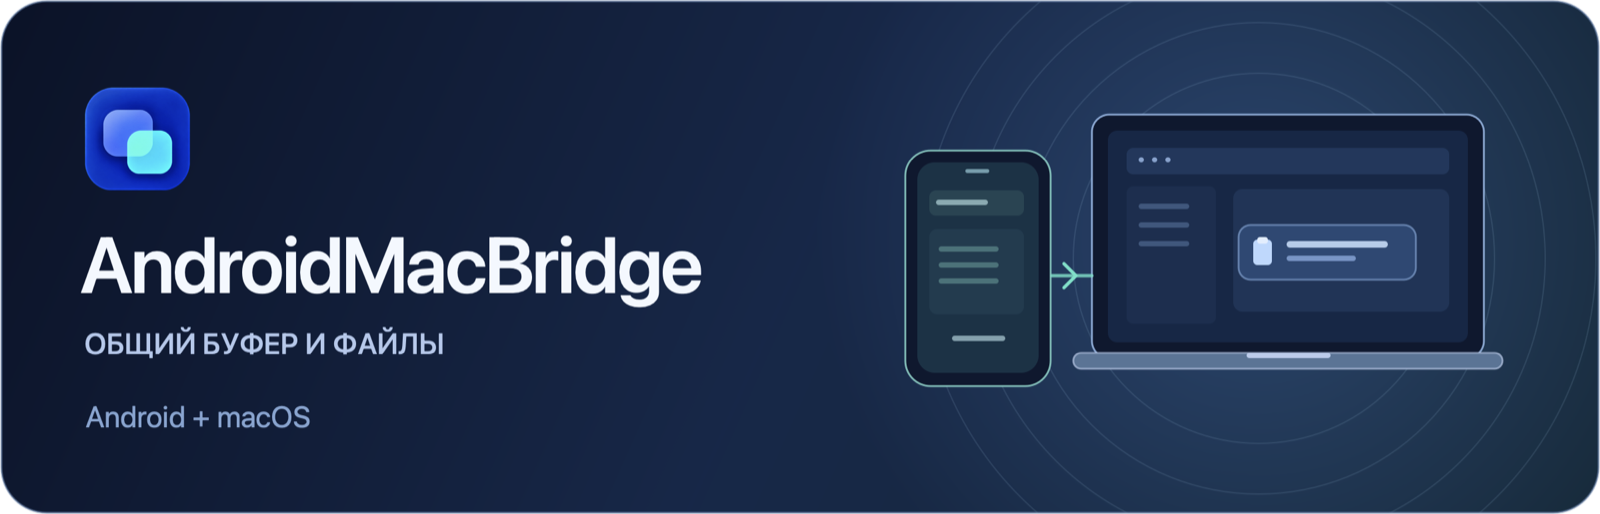
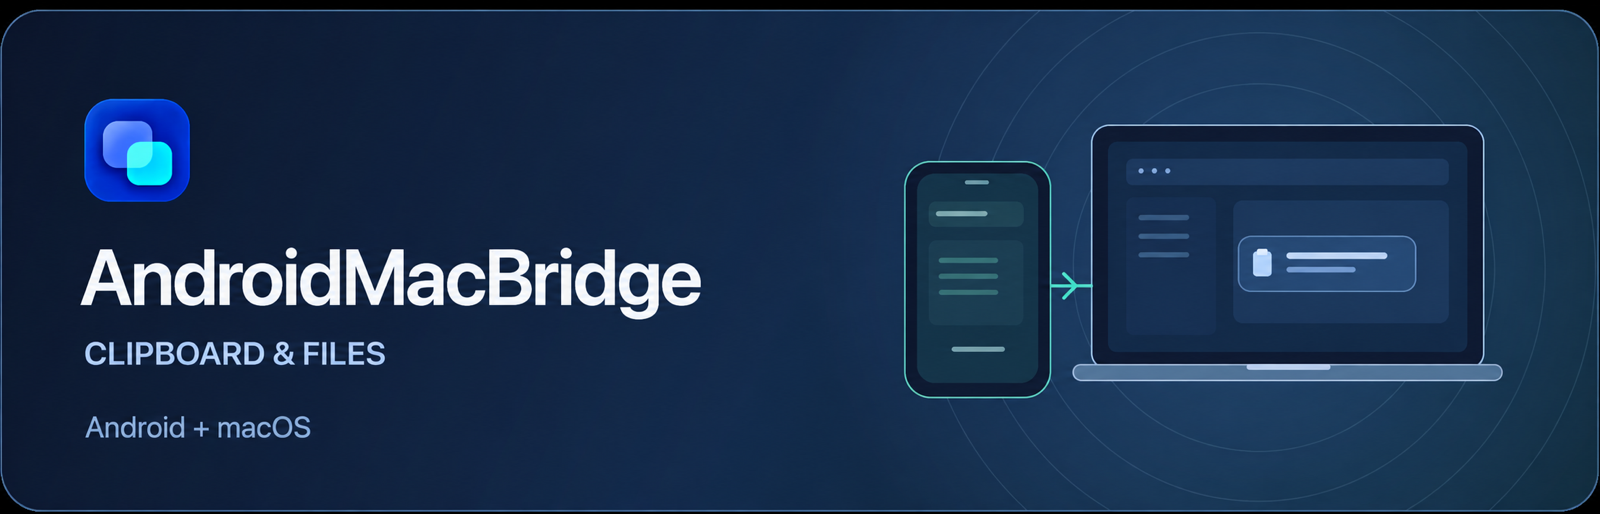
Translate public repository materials into English

diff --git a/README.md b/README.md
@@ -1,94 +1,94 @@
 <h1 align="center">
-  <img src="cover.png" width="960" alt="AndroidMacBridge — общий буфер и передача файлов между Android и Mac">
+  <img src="cover.png" width="960" alt="AndroidMacBridge — clipboard and file sharing between Android and Mac">
 </h1>
 
-<p align="center"><strong>Скопируй здесь, вставь там.</strong> Отправляй файлы в обе стороны.</p>
+<p align="center"><strong>Copy here. Paste there.</strong> Share files both ways.</p>
 
 <p align="center">
-  <a href="https://github.com/Seferaki/AndroidMacBridge/releases/download/v1.0.0/AndroidMacBridge-1.0.0-Android.apk"><img src="download-android.png" width="216" alt="Скачать APK для Android 10 и новее"></a>
+  <a href="https://github.com/Seferaki/AndroidMacBridge/releases/download/v1.0.0/AndroidMacBridge-1.0.0-Android.apk"><img src="download-android.png" width="216" alt="Download for Android 10 and later"></a>
   &nbsp;
-  <a href="https://github.com/Seferaki/AndroidMacBridge/releases/download/v1.0.0/AndroidMacBridge-1.0.0-macOS.zip"><img src="download-macos.png" width="216" alt="Скачать приложение для macOS 13 и новее"></a>
+  <a href="https://github.com/Seferaki/AndroidMacBridge/releases/download/v1.0.0/AndroidMacBridge-1.0.0-macOS.zip"><img src="download-macos.png" width="216" alt="Download for macOS 13 and later"></a>
 </p>
 
 <p align="center">
-  <a href="https://github.com/Seferaki/AndroidMacBridge/releases/tag/v1.0.0">Выпуск 1.0.0</a>
-  · <a href="#установка">Установка</a>
-  · <a href="#сборка-из-исходного-кода">Исходный код</a>
-  · <a href="https://github.com/Seferaki/AndroidMacBridge/releases">Все версии</a>
+  <a href="https://github.com/Seferaki/AndroidMacBridge/releases/tag/v1.0.0">Release 1.0.0</a>
+  · <a href="#installation">Installation</a>
+  · <a href="#building-from-source">Build from source</a>
+  · <a href="https://github.com/Seferaki/AndroidMacBridge/releases">All releases</a>
 </p>
 
-<p align="center">Если проект оказался полезен — поставьте ⭐ этому репозиторию. Это помогает ему развиваться.</p>
+<p align="center">If AndroidMacBridge is useful to you, please give this repository a ⭐ star. It helps the project grow.</p>
 
 ---
 
-## Что умеет AndroidMacBridge
+## What it does
 
-- **Общий буфер.** Текст, ссылки и изображения передаются между Android и Mac.
-- **Файлы в обе стороны.** На телефоне отправляй файл через «Поделиться»; на Mac — через меню Finder, перетаскивание или приложение.
-- **Wi‑Fi или Bluetooth.** Устройства работают в одной локальной сети либо напрямую по Bluetooth, когда подключены к разным сетям.
-- **Раздельная история.** История буфера и передач сохраняется отдельно для каждой пары устройств.
-- **Передача без облака.** Устройства обмениваются данными напрямую по защищённому соединению.
+- **Shared clipboard.** Sync text, links, and images between Android and Mac.
+- **Two-way file transfer.** Share files from Android; send them from Finder, drag and drop, or the Mac app.
+- **Wi-Fi or Bluetooth.** Use the same local network or connect directly over Bluetooth when the devices are on different networks.
+- **Separate device-pair history.** Clipboard entries and transfers are stored separately for each Android–Mac pair.
+- **No cloud relay.** Devices communicate directly over an encrypted connection.
 
-Фоновое копирование проверено на Galaxy S25 и Redmi 15, в том числе в Telegram, WhatsApp и заметках. Совместимость и фоновые ограничения могут зависеть от модели Android и настроек энергосбережения.
+Background clipboard sync has been confirmed on Galaxy S25 and Redmi 15, including Telegram, WhatsApp, and Notes. Android background behavior can vary by device and battery settings.
 
-## Установка
+## Installation
 
-1. **Android.** Скачай APK и открой его. Если Android спросит, разреши установку из приложения, в котором открыл файл.
-2. **Mac.** Распакуй ZIP и перенеси **AndroidMacBridge.app** в «Программы». При первом запуске разреши доступ к локальной сети.
-3. **Сопряжение.** Подключи устройства к одной Wi‑Fi сети, отсканируй QR-код с экрана Mac и подтверди запрос на Mac.
-4. **Общий буфер и Bluetooth.** По желанию включи нужную функцию в настройках обоих устройств. Bluetooth нужен, если устройства находятся в разных сетях.
+1. **Android:** Download and open the APK. If prompted, allow installs from the app used to open the file.
+2. **Mac:** Unzip the download and move **AndroidMacBridge.app** to Applications. Allow local network access when macOS asks.
+3. **Pair the devices:** Connect them to the same Wi-Fi network, scan the QR code shown on Mac, and approve the request on Mac.
+4. **Clipboard and Bluetooth:** Enable these features in settings on both devices as needed. Bluetooth is useful when the devices are on different networks.
 
 <details>
-<summary><strong>Если macOS блокирует первый запуск</strong></summary>
+<summary><strong>If macOS blocks the first launch</strong></summary>
 
-Приложение не нотариально заверено Apple. После попытки запуска открой **Системные настройки → Конфиденциальность и безопасность → Всё равно открыть**. [Инструкция Apple](https://support.apple.com/ru-ru/102445)
+The Mac app is not notarized by Apple. After trying to open it, go to **System Settings → Privacy & Security → Open Anyway**. See [Apple’s instructions](https://support.apple.com/en-us/102445).
 
 </details>
 
 <details>
-<summary><strong>Если Android не устанавливает APK поверх тестовой версии</strong></summary>
+<summary><strong>If Android will not install over a test build</strong></summary>
 
-У опубликованного APK может отличаться ключ подписи. Удали тестовую версию и установи APK со страницы релизов. При удалении приложения сбросятся его сопряжения, настройки и локальная история.
+The published APK may use a different signing key. Uninstall the test build before installing the release. Uninstalling clears the app’s pairings, settings, and local history.
 
 </details>
 
-## Сборка из исходного кода
+## Building from source
 
 ### Android
 
-- Установи JDK 17 и Android SDK Platform 37, прими лицензию платформы.
-- Открой каталог `android/` в Android Studio или собери debug APK из терминала:
+- Install JDK 17 and Android SDK Platform 37, then accept the platform license.
+- Open `android/` in Android Studio or build a debug APK from a terminal:
 
   ```sh
   cd android
   ./gradlew assembleDebug
   ```
 
-- Результат: `android/app/build/outputs/apk/debug/app-debug.apk`.
+- Output: `android/app/build/outputs/apk/debug/app-debug.apk`.
 
 ### macOS
 
-- Нужны Xcode и его инструменты командной строки.
-- Из корня проекта запусти:
+- Xcode and its command-line tools are required.
+- From the project root, run:
 
   ```sh
   ./scripts/build-macos-app.sh
   ```
 
-- Приложение появится в `dist/AndroidMacBridge.app`. Для универсальной сборки под Apple Silicon и Intel используй `BRIDGE_MAC_UNIVERSAL=1 ./scripts/build-macos-app.sh`.
+- The app is created at `dist/AndroidMacBridge.app`. For a universal Apple Silicon and Intel build, run `BRIDGE_MAC_UNIVERSAL=1 ./scripts/build-macos-app.sh`.
 
-Ключи подписи и файлы `local.properties` храни только у себя. Не добавляй их в репозиторий.
+Keep signing keys and `local.properties` on your own machine. Never commit them.
 
-## Структура проекта
+## Project layout
 
-- `android/` — приложение Android, клавиатура, фоновый буфер, Bluetooth и тесты.
-- `macos/` — приложение Mac, сетевой протокол и расширение «Поделиться» для Finder.
-- `scripts/` — сборка приложения Mac и подготовка Android SDK.
+- `android/` — Android app, keyboard, clipboard service, Bluetooth transport, and tests.
+- `macos/` — Mac app, network protocol, and Finder Share extension.
+- `scripts/` — Mac app build and Android SDK setup scripts.
 
-## Обратная связь
+## Feedback
 
-Нашёл ошибку или хочешь предложить улучшение? [Создай issue](https://github.com/Seferaki/AndroidMacBridge/issues/new). Не прикладывай содержимое личного буфера обмена, QR-коды сопряжения, токены или ключи подписи.
+Found a bug or have an idea? [Open an issue](https://github.com/Seferaki/AndroidMacBridge/issues/new). Please do not attach personal clipboard contents, pairing QR codes, tokens, or signing keys.
 
-## Лицензия
+## License
 
-Исходный код и оригинальные материалы проекта распространяются по лицензии [MIT](LICENSE). Словари и сторонние зависимости сохраняют собственные лицензии; см. [сторонние лицензии](THIRD_PARTY_NOTICES.md).
+The project source code and original materials are licensed under the [MIT License](LICENSE). Bundled word lists and third-party dependencies retain their own licenses; see [Third-Party Notices](THIRD_PARTY_NOTICES.md).
